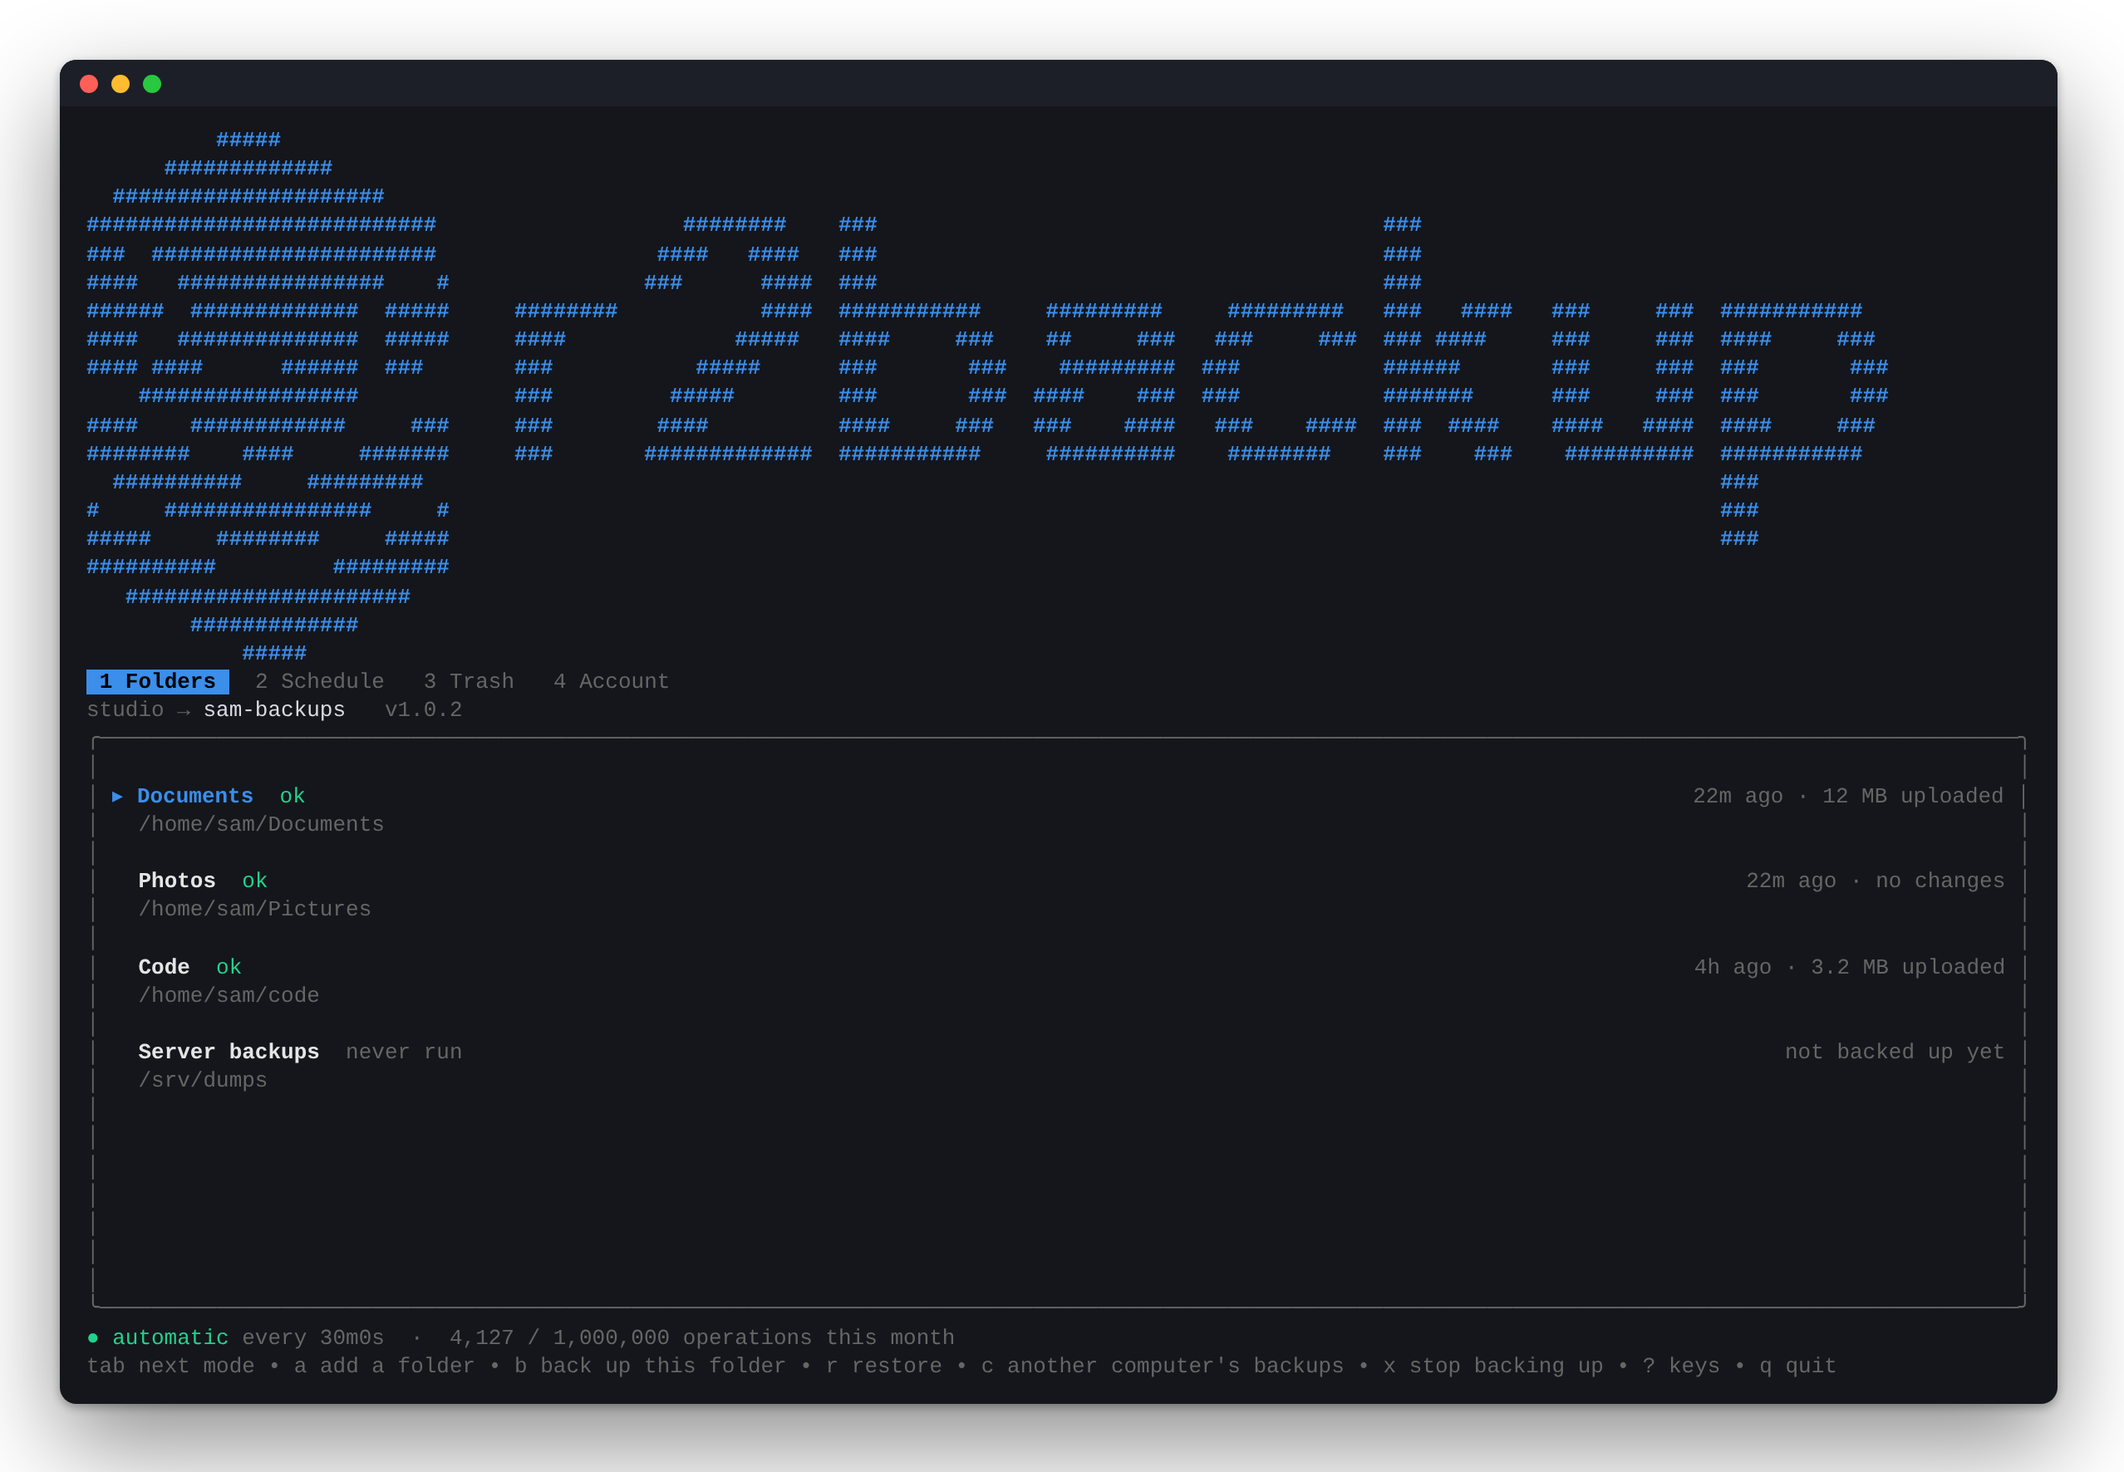
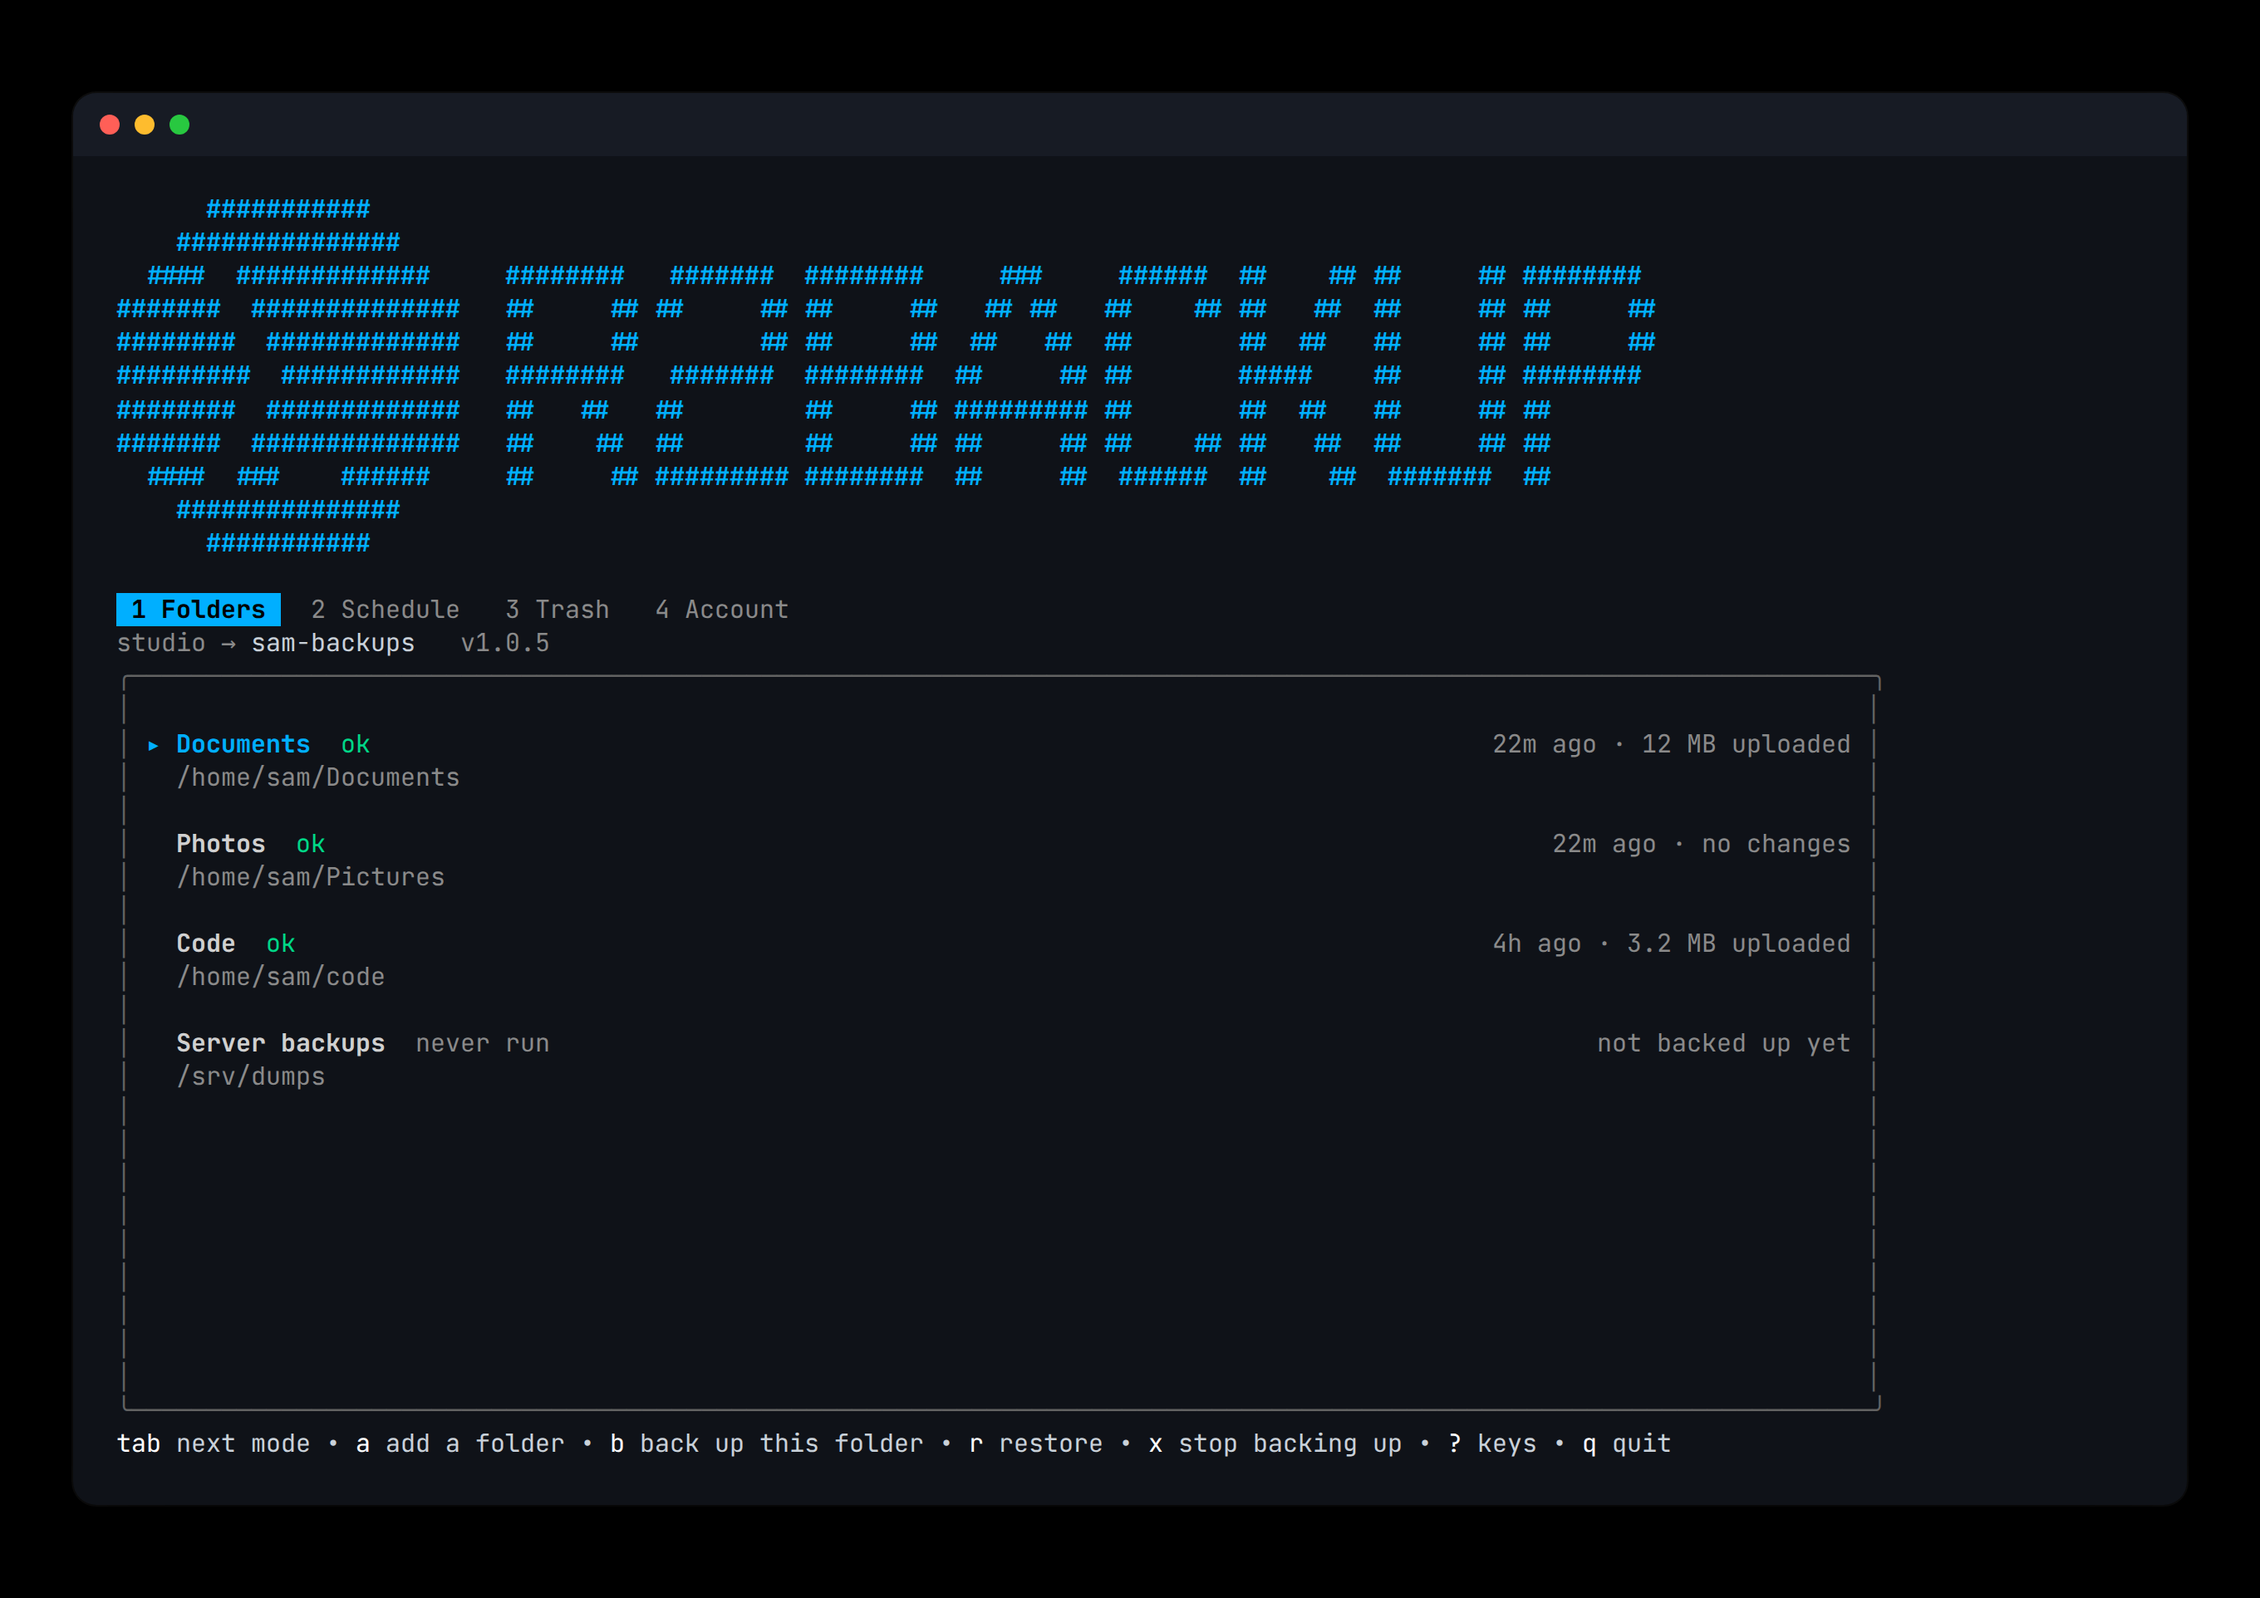
feat(ui): answer this computer's standing state in one place
The footer carried a permanent status line above the keys: whether
backups were automatic, and how many operations the month had used. Both
are real answers, and neither is a question anyone is asking while
reading the keys for the screen they are on -- so every screen paid a row
for them and the list was a row shorter everywhere. The footer is the
keys now, and whatever just happened.

Those two moved to the Account tab, next to the bucket and the account
itself, where they can be read together: what this computer is pointed
at, whether it backs itself up and how often, what that has cost against
the month's allowance, and who it is signed in as. Read one at a time,
each of them only raises the next.

Signed in is checked before the error there, not after. The device list
and the vault are fetched separately, so a perfectly good session whose
vault check happened to fail rendered as a raw error and nothing else --
indistinguishable, to the person reading it, from having been signed out.
Whatever went wrong is still said, underneath.

The Trash tab's heading was "Recoverable - <folder>". It names which
folder's trash is on screen, but a folder's own name after the word
"Recoverable" reads as a claim about the folder -- that it was deleted
and can be brought back -- and it appears the moment you tab across,
whether or not anything is in there. It is "Trash - <folder>" now, and
the word "recoverable" sits against a count of files, where it is a fact
[…]

diff --git a/internal/ui/view.go b/internal/ui/view.go
@@ -118,11 +118,15 @@ func (m *Model) syncList() {
 // pointed.
 func (m *Model) header() string {
 	var b strings.Builder
-	// The art is nineteen rows. That is a reasonable opening and an
-	// unreasonable permanent cost, so it greets you on the folder list and
-	// stands aside the moment you are doing something.
+	// Banner now has a rung for nearly any size, not just the nineteen-row
+	// original, so the cost that used to confine the art to the folder list
+	// is mostly gone -- every overlay-free screen picks whatever rung fits.
+	// An overlay is a different kind of screen: a form, a confirmation, a
+	// running backup. It is a focused, momentary interaction rather than a
+	// place to greet, so it keeps the plain word rather than competing with
+	// the art for attention.
 	art := bannerStyle.Render("r2backup")
-	if m.overlay == overlayNone && m.tab == tabFolders {
+	if m.overlay == overlayNone {
 		art = Banner(m.width, m.height)
 	}
 	b.WriteString(m.fit(art))
@@ -161,37 +165,29 @@ func (m *Model) tabBar() string {
 	return lipgloss.JoinHorizontal(lipgloss.Top, parts...)
 }
 
-// footer carries what a person checks without asking, the mode's own keys,
-// and whatever just happened.
+// footer is the keys, and whatever just happened. Nothing else.
+//
+// It used to carry a standing status line above the keys as well -- whether
+// backups were automatic, and how many operations the month had used. Both
+// are real answers to questions a person asks, but neither is a question
+// they are asking *while reading the keys for the screen they are on*, and
+// paying a permanent row of the window for them on every screen is how the
+// list ended up a row shorter than it needed to be everywhere. They live on
+// the Account tab now, next to the rest of this computer's standing state,
+// where they can be read together instead of one at a time.
 //
 // Every line goes through fit. lipgloss does not wrap and JoinVertical pads
 // every line to the widest, so one line a column too long does not overflow
 // itself -- it widens the whole frame and staircases the border.
 func (m *Model) footer() string {
-	var parts []string
-	if m.ov.Scheduled {
-		parts = append(parts, goodStyle.Render("● automatic")+dimStyle.Render(" every "+m.ov.Interval.Round(time.Minute).String()))
-	} else {
-		parts = append(parts, warnStyle.Render("○ manual only"))
-	}
-	if m.ov.OpsLimit > 0 {
-		parts = append(parts, dimStyle.Render(fmt.Sprintf("%s / %s operations this month",
-			progress.FormatCount(int64(m.ov.OpsUsed)), progress.FormatCount(int64(m.ov.OpsLimit)))))
-	}
-
-	var b strings.Builder
-	b.WriteString(m.fit(strings.Join(parts, dimStyle.Render("  ·  "))))
-	b.WriteString("\n")
-
 	switch {
 	case m.err != nil:
-		b.WriteString(m.fit(errorStyle.Render("! " + m.err.Error())))
+		return m.fit(errorStyle.Render("! " + m.err.Error()))
 	case m.notice != "":
-		b.WriteString(m.fit(statusStyle.Render(m.notice)))
+		return m.fit(statusStyle.Render(m.notice))
 	default:
-		b.WriteString(m.fit(m.help.ShortHelpView(m.shortHelp())))
+		return m.fit(m.help.ShortHelpView(m.shortHelp()))
 	}
-	return b.String()
 }
 
 // shortHelp is the footer's binding list, trimmed for the room there is.
@@ -388,7 +384,7 @@ func (m *Model) scheduleView() string {
 
 	if m.ov.Scheduled {
 		b.WriteString("  " + goodStyle.Render("● On") + dimStyle.Render(" — every ") +
-			titleStyle.Render(m.ov.Interval.Round(time.Minute).String()) + "\n\n")
+			titleStyle.Render(humanEvery(m.ov.Interval)) + "\n\n")
 		if !m.ov.NextRun.IsZero() {
 			b.WriteString(labelStyle.Render("  next run") + m.ov.NextRun.Format("Mon 2 Jan, 15:04") + "\n")
 		}
@@ -465,12 +461,19 @@ func (m *Model) trashView() string {
 	if m.trashSet == "" {
 		return "\n" + dimStyle.Render("  Choose a folder on the Folders tab first.") + "\n"
 	}
-	head := titleStyle.Render("Recoverable · "+m.trashSet) + "\n"
+	// "Trash · <folder>", not "Recoverable · <folder>". The heading names
+	// which folder's trash is being shown, but a folder's own name printed
+	// after the word "Recoverable" reads as a claim about the folder -- that
+	// it has been deleted and can be brought back -- which is alarming and
+	// wrong, and it is shown the moment you tab across here whether or not
+	// anything is in it. The word still belongs on this screen; it belongs
+	// attached to a count of files, where it is a fact rather than a verdict.
+	head := titleStyle.Render("Trash · "+m.trashSet) + "\n"
 	if len(m.trashRows) == 0 {
 		return head + "\n" + dimStyle.Render("  Nothing deleted or overwritten. Every file here is the current one.") + "\n"
 	}
 	return head + m.trash.View() + "\n" +
-		dimStyle.Render("enter recovers the highlighted file")
+		dimStyle.Render(countOf(int64(len(m.trashRows)), "file", "files")+" recoverable · enter recovers the highlighted one")
 }
 
 // interruptedNote says how far a stopped run got and what happens next.
@@ -583,6 +586,42 @@ func (m *Model) remoteView() string {
 
 // --- Account ---
 
+// humanEvery says how often a scheduled backup runs, in words.
+//
+// time.Duration.String() renders half an hour as "30m0s", which is a
+// programmer's spelling of it: correct, and not what anybody would say out
+// loud. This is read in a sentence -- "Automatic, every ..." -- so it has to
+// finish that sentence the way a person would.
+func humanEvery(d time.Duration) string {
+	d = d.Round(time.Minute)
+	h, m := int(d/time.Hour), int(d%time.Hour/time.Minute)
+	switch {
+	case h > 0 && m > 0:
+		return fmt.Sprintf("%s %s", plural(h, "hour"), plural(m, "minute"))
+	case h > 0:
+		return plural(h, "hour")
+	case m > 0:
+		return plural(m, "minute")
+	default:
+		return "minute"
+	}
+}
+
+func plural(n int, noun string) string {
+	if n == 1 {
+		return "1 " + noun
+	}
+	return fmt.Sprintf("%d %ss", n, noun)
+}
+
+// accountView is where this computer's standing state is answered in one
+// place: what it is pointed at, whether it backs itself up, what that has
+// cost this month, and who -- if anyone -- it is signed in as.
+//
+// The first three of those used to be scattered: the bucket here, automatic
+// or not in a permanent footer line on every screen, the operations count
+// beside it. Read one at a time they each raise the next question, which is
+// why they are read together now.
 func (m *Model) accountView() string {
 	var b strings.Builder
 	b.WriteString(titleStyle.Render("This computer") + "\n\n")
@@ -591,11 +630,36 @@ func (m *Model) accountView() string {
 	} else {
 		b.WriteString("  " + badStyle.Render("● No credentials yet") + dimStyle.Render(" — sign in, or press k to enter your R2 keys.") + "\n")
 	}
+	if m.ov.Scheduled {
+		b.WriteString("  " + goodStyle.Render("● Automatic") + dimStyle.Render(" — every "+humanEvery(m.ov.Interval)))
+		if !m.ov.NextRun.IsZero() {
+			b.WriteString(dimStyle.Render(", next " + m.ov.NextRun.Format("Mon 2 Jan 15:04")))
+		}
+		b.WriteString("\n")
+	} else {
+		b.WriteString("  " + warnStyle.Render("○ Manual") + dimStyle.Render(" — backups run only when you run them. 2 Schedule turns this on.") + "\n")
+	}
+	// The allowance is worth showing even at nought used, because the number
+	// people want is not what they have spent -- it is how much room is left
+	// before spending anything at all.
+	if m.ov.OpsLimit > 0 {
+		line := fmt.Sprintf("%s of %s operations this month",
+			progress.FormatCount(int64(m.ov.OpsUsed)), progress.FormatCount(int64(m.ov.OpsLimit)))
+		if !m.ov.OpsResetAt.IsZero() {
+			line += ", resets " + m.ov.OpsResetAt.Format("2 Jan")
+		}
+		b.WriteString("  " + dimStyle.Render(line) + "\n")
+	}
 
 	b.WriteString("\n" + titleStyle.Render("Account") + "\n\n")
+	// Signed in is checked before the error, not after. It used to be the
+	// other way round, and the two are not alternatives: the device list and
+	// the vault are fetched separately, so a perfectly good session whose
+	// vault check happened to fail rendered as nothing but a raw error --
+	// indistinguishable, to the person reading it, from having been signed
+	// out. Whatever went wrong is worth saying, underneath, but it does not
+	// get to overwrite the answer to "am I signed in".
 	switch {
-	case m.acct.Err != "":
-		b.WriteString("  " + badStyle.Render(m.acct.Err) + "\n")
 	case m.acct.SignedIn:
 		b.WriteString("  " + goodStyle.Render("● Signed in") + dimStyle.Render(" as ") + m.acct.Email + "\n")
 		if m.acct.VaultStored {
@@ -603,6 +667,11 @@ func (m *Model) accountView() string {
 		} else {
 			b.WriteString("  " + warnStyle.Render("Your keys are not saved yet") + dimStyle.Render(" — press p to save them.") + "\n")
 		}
+		if m.acct.Err != "" {
+			b.WriteString("  " + warnStyle.Render(m.acct.Err) + "\n")
+		}
+	case m.acct.Err != "":
+		b.WriteString("  " + badStyle.Render(m.acct.Err) + "\n")
 	default:
 		b.WriteString("  " + dimStyle.Render("Not signed in. An account lets your other computers pick up these") + "\n")
 		b.WriteString("  " + dimStyle.Render("credentials without you typing them again. It is optional.") + "\n")

diff --git a/internal/ui/smoke_test.go b/internal/ui/smoke_test.go
@@ -240,31 +240,50 @@ func apply(t *testing.T, m *Model, cmd tea.Cmd) {
 func TestHomeShowsEverySetAndItsState(t *testing.T) {
 	m := sized(twoSets(), 120, 40)
 	view := m.View()
-	for _, want := range []string{"Documents", "Code", "never run", "backups", "automatic"} {
+	for _, want := range []string{"Documents", "Code", "never run", "backups"} {
 		if !strings.Contains(view, want) {
 			t.Errorf("home view is missing %q\n---\n%s", want, view)
 		}
 	}
 }
 
-// The art is 139 columns wide. Drawn into an 80-column terminal every line
-// would wrap in the middle and the logo would become noise, so a narrow
-// window gets the plain title instead.
+// Whether backups are automatic used to be a standing line in the footer,
+// on every screen. It is one of this computer's answers, not one of the
+// folder list's, so it moved to the Account tab -- and the assertion moved
+// with it rather than being dropped, because "it is said somewhere" is the
+// part that matters and "it is said in the footer" was never the point.
+func TestTheAccountTabAnswersHowThisComputerIsSetUp(t *testing.T) {
+	m := sized(twoSets(), 120, 40)
+	m.tab = tabAccount
+	view := m.View()
+	for _, want := range []string{"This computer", "automatic", "operations this month", "Account"} {
+		if !strings.Contains(strings.ToLower(view), strings.ToLower(want)) {
+			t.Errorf("account tab is missing %q\n---\n%s", want, view)
+		}
+	}
+	if strings.Contains(m.footer(), "operations") {
+		t.Errorf("the footer should carry keys only, not standing status:\n%s", m.footer())
+	}
+}
+
+// Banner is now a ladder of five rungs rather than one piece of art and a
+// fallback, so the narrow-terminal behaviour it used to guard here is
+// exercised in much more depth by TestBannerFitsEveryRealisticSize and its
+// neighbours in banner_test.go. What is left to check from here is the
+// shape of the API a caller outside banner.go sees: something wide and tall
+// enough gets art, and something genuinely tiny still falls back to a word
+// rather than printing a scrap of a rung that would not read as anything.
 func TestTheBannerGivesWayOnANarrowTerminal(t *testing.T) {
-	wide := Banner(bannerWidth+10, bannerHeight+20)
+	wide := Banner(200, 60)
 	if !strings.Contains(wide, "#") {
-		t.Error("a terminal wide enough should get the art")
+		t.Error("a terminal wide and tall enough should get art")
 	}
-	narrow := Banner(80, 40)
-	if strings.Contains(narrow, "#") {
-		t.Errorf("an 80-column terminal should not get 139-column art:\n%s", narrow)
+	tiny := Banner(15, 8)
+	if strings.Contains(tiny, "#") {
+		t.Errorf("a 15x8 terminal should not fit even the smallest rung:\n%s", tiny)
 	}
-	if !strings.Contains(narrow, "r2backup") {
+	if !strings.Contains(tiny, "r2backup") {
 		t.Error("the fallback should still say what this is")
-	}
-	short := Banner(200, 10)
-	if strings.Contains(short, "#") {
-		t.Error("a short window should not spend every row on the banner")
 	}
 }
 

diff --git a/internal/ui/flows_test.go b/internal/ui/flows_test.go
@@ -161,7 +161,7 @@ func TestSchedulingIsAModeYouCanLookAt(t *testing.T) {
 	m.layout()
 
 	view := m.View()
-	for _, want := range []string{"Automatic backups", "every 30m", "turn off", "change how often"} {
+	for _, want := range []string{"Automatic backups", "every 30 minutes", "turn off", "change how often"} {
 		if !strings.Contains(view, want) {
 			t.Errorf("the schedule mode is missing %q\n---\n%s", want, view)
 		}
